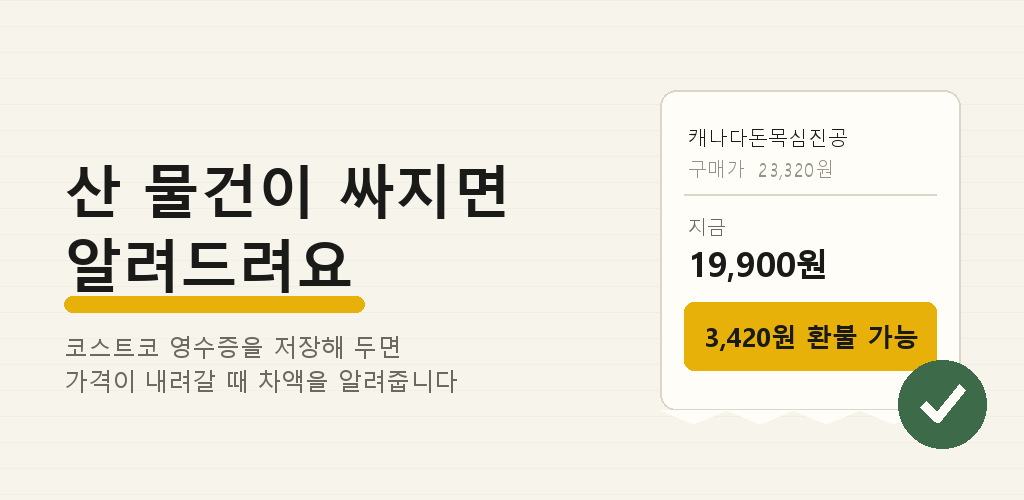
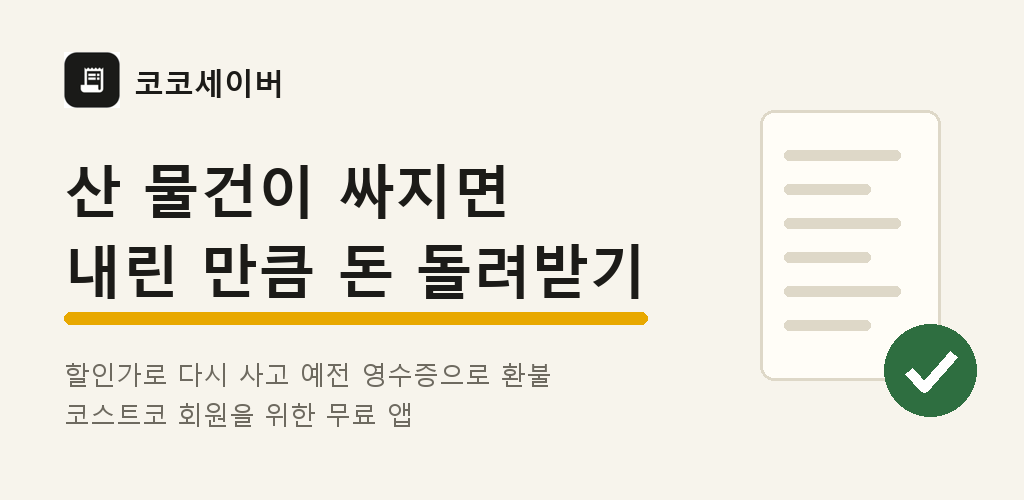
공유 그림을 중립 그림으로 — 첫 화면·돌려받을 돈 찾기·설치 페이지 (cocosaver #248)

diff --git a/download/index.html b/download/index.html
@@ -10,10 +10,10 @@
 <meta property="og:type" content="website">
 <meta property="og:site_name" content="코코세이버">
 <meta property="og:url" content="https://cocosaver.rapa.world/download/">
-<meta property="og:image" content="https://cocosaver.rapa.world/download/og.png">
+<meta property="og:image" content="https://cocosaver.rapa.world/download/og2.png">
 <meta property="og:image:width" content="1024">
 <meta property="og:image:height" content="500">
-<meta property="og:image:alt" content="산 물건이 싸지면 알려드려요 — 코코세이버">
+<meta property="og:image:alt" content="산 물건이 싸지면 내린 만큼 돈 돌려받기 — 코코세이버">
 <meta name="twitter:card" content="summary_large_image">
 <link rel="canonical" href="https://cocosaver.rapa.world/download/">
[1 lines of base64/hex data omitted]
@@ -29,7 +29,7 @@
     shorts: "utm_source=youtube&utm_medium=shorts", reel: "utm_source=instagram&utm_medium=reel",
     blog: "utm_source=naver_blog&utm_medium=post", card: "utm_source=instagram&utm_medium=card",
     threads: "utm_source=threads&utm_medium=post", qr: "utm_source=qr&utm_medium=offline",
-    community: "utm_source=community&utm_medium=post", creator: "utm_source=creator&utm_medium=partner",
+    community: "utm_source=community&utm_medium=post", kin: "utm_source=kin&utm_medium=answer", creator: "utm_source=creator&utm_medium=partner",
     seo: "utm_source=seo&utm_medium=deal_page", checker: "utm_source=checker&utm_medium=web_tool",
     share: "utm_source=share&utm_medium=app", invite: "utm_source=invite&utm_medium=app"
   };

diff --git a/index.html b/index.html
@@ -14,12 +14,12 @@
 <meta property="og:type" content="website">
 <meta property="og:site_name" content="코코세이버">
 <meta property="og:title" content="코코세이버 — 산 물건이 싸지면 알려드려요">
-<meta property="og:description" content="코스트코 영수증을 넣어 두면 가격이 내려갈 때 차액을 알려 드려요.">
+<meta property="og:description" content="코스트코 영수증을 넣어 두면, 산 물건이 싸졌을 때 돌려받을 수 있는 금액을 알려 드려요.">
 <meta property="og:url" content="https://cocosaver.rapa.world/">
-<meta property="og:image" content="https://cocosaver.rapa.world/download/og.png">
+<meta property="og:image" content="https://cocosaver.rapa.world/download/og2.png">
 <meta property="og:image:width" content="1024">
 <meta property="og:image:height" content="500">
-<meta property="og:image:alt" content="산 물건이 싸지면 알려드려요 — 코코세이버">
+<meta property="og:image:alt" content="산 물건이 싸지면 내린 만큼 돈 돌려받기 — 코코세이버">
 <meta name="twitter:card" content="summary_large_image">
 <script type="application/ld+json">
 {

diff --git a/check/index.html b/check/index.html
@@ -11,7 +11,10 @@
 <meta property="og:title" content="코스트코 가격 내림 환불 확인 — 돌려받을 돈 찾기">
 <meta property="og:description" content="코스트코에서 산 물건, 지금 싸졌나요? 상품번호나 이름을 넣으면 돌려받을 돈을 알려 드려요.">
 <meta property="og:url" content="https://cocosaver.rapa.world/check/">
-<meta property="og:image" content="https://cocosaver.rapa.world/download/og.png">
+<meta property="og:image" content="https://cocosaver.rapa.world/download/og2.png">
+<meta property="og:image:width" content="1024">
+<meta property="og:image:height" content="500">
+<meta property="og:image:alt" content="산 물건이 싸지면 내린 만큼 돈 돌려받기 — 코코세이버">
 <link rel="icon" href="/img/icon.png">
 <style>
 :root { --bg:#f7f4ec; --card:#fffdf7; --ink:#1c1b18; --muted:#6e6a60; --line:#dcd6c6;
